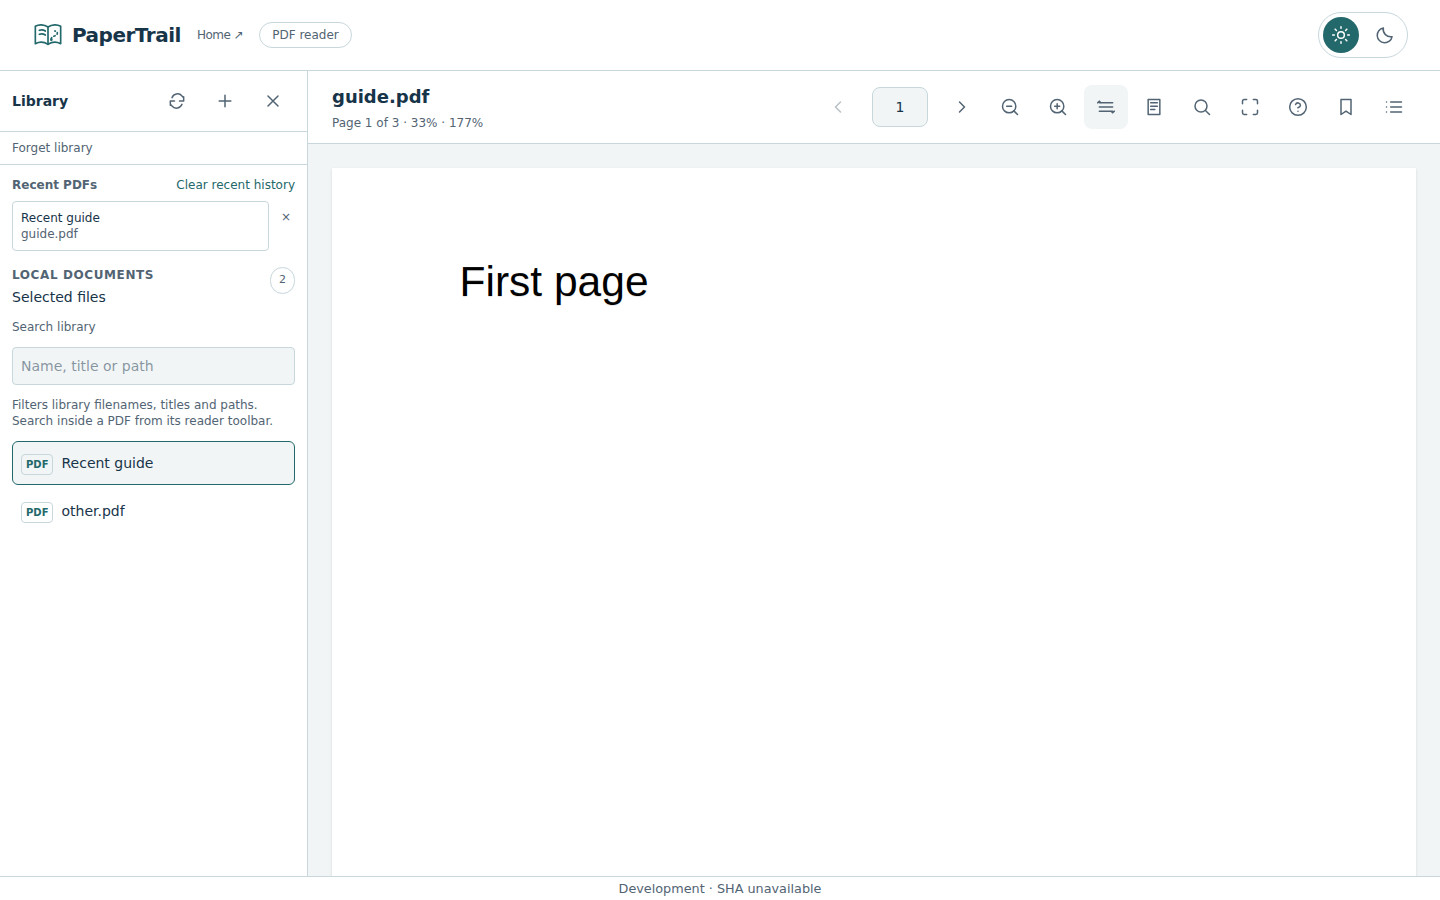
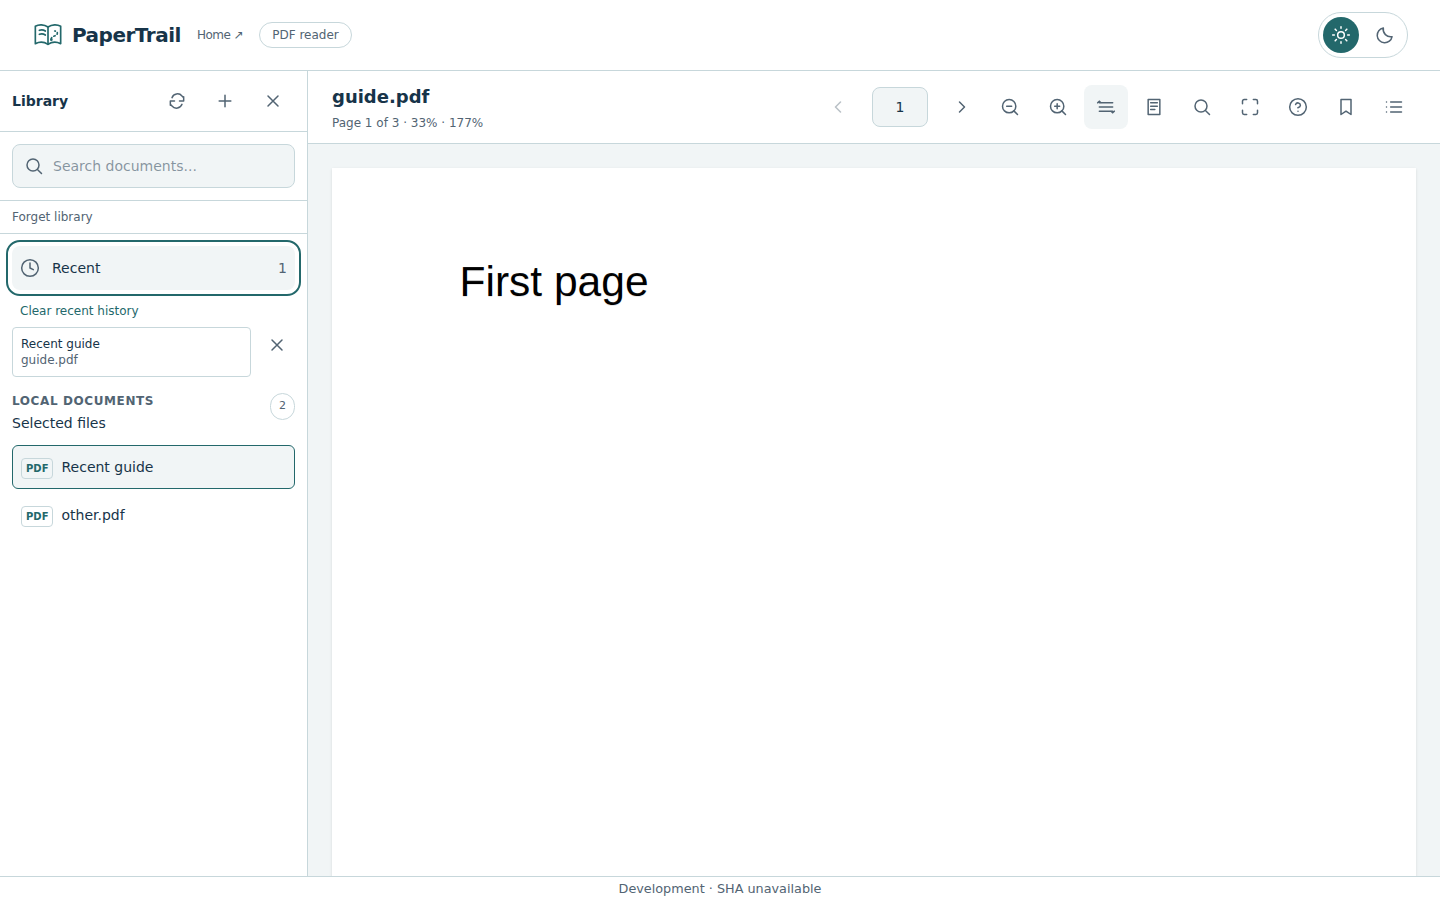
Record sidebar feedback reference comparison and fresh browser acceptance

Changed region(s): [[0.0, 0.1556, 0.2188, 0.5911], [0.1875, 0.28, 0.2188, 0.3422]]

diff --git a/design-qa.md b/design-qa.md
@@ -1,0 +1,38 @@
+# Sidebar feedback design QA — #14
+
+## Comparison target and evidence
+
+Source visual truth: [Recent reference](docs/screenshots/sidebar-reference-recent.png), 605 × 58 pixels, and [search reference](docs/screenshots/sidebar-reference-search.png), 390 × 125 pixels. The supplied images are partial UI crops with unknown CSS density. Scope is the owner’s three requested sidebar changes within PaperTrail’s existing design system, not recreation of the Add menu, app-wide colors or the entire mockup.
+
+Browser-rendered implementation: [1440px dark](docs/screenshots/recent-library-dark-1440.png), [1440px light](docs/screenshots/recent-library-1440.png), [320px light](docs/screenshots/recent-library-320.png), [320px dark](docs/screenshots/recent-library-dark-320.png). Viewports are 1440 × 900 and 320 × 900 CSS pixels, device scale factor 1. States: selected PDF, expanded Recent containing one item, cleared library query; light Recent retains keyboard focus. Source sample count five differs from the fixture count one intentionally; the count represents actual history length.
+
+[Combined comparison](docs/screenshots/sidebar-feedback-comparison.png) places the supplied crops beside the actual dark sidebar. Recent reference is proportionally normalized to 390px; search reference is native size; actual sidebar remains native 308px. This is a scoped structural/content comparison, not a claim of pixel-exact typography from crops with unknown density. Full-view captures assess pane layout and viewport bounds; focused sidebar comparison assesses the requested surfaces.
+
+## Findings and required fidelity surfaces
+
+No actionable P0/P1/P2 differences within the requested scope.
+
+- Fonts/typography: existing readable PaperTrail sans-serif hierarchy retained. Recent label and muted count fit without truncation; placeholder is readable in both themes. Mock font sizing outside these requested controls is not being adopted globally.
+- Spacing/layout: search immediately follows Library header, before workspace actions and scrollable lists. Leading search icon has sufficient input inset. Recent clock leads the row; count aligns at its trailing edge. Sidebar controls fit narrow and desktop layouts. Native focus ring is intentional.
+- Colors/tokens: existing light/dark semantic panel, canvas, muted and brand tokens retained. Dark reference and implemented dark controls have the same functional foreground/background hierarchy; full palette redesign is outside this feedback.
+- Asset fidelity: search reuses the existing icon system; clock uses upstream Lucide circle/path under the existing license. Vector assets remain sharp. No raster illustration is requested by the supplied crops.
+- Copy: placeholder is exactly `Search documents...`; row is `Recent`. Visible search label/help and empty-history sentence are absent. Input retains `Search library` accessible naming and screen-reader-only result count. Actual file-access error guidance remains available.
+
+## Browser validation and comparison history
+
+Accepted application/test source `ead6e5e9f453085f939c2abf5e2072dbc92ded86` passed Frontend CI 37149532676 and Browser E2E 37149606676: 122 unit/component, 10 pipeline and 102 browser cases, eight intentional skips, no failures/retries. All five widths verify pointer collapse, keyboard Enter expansion, search placement, exact placeholder, removed copy, history recovery and clearing without deleting reading metadata. The recent-library lifecycle records console/page errors and asserts none. Existing PDF geometry/bookmark/workspace tests remain green.
+
+First combined comparison found no P0/P1/P2 issue, so no visual fix iteration was needed. Browser images above and the combined comparison are the final evidence. Local cloud preview was attempted at terminal.local:4173 but blocked by the client; local interactive-preview verification remains unavailable. This report's visual and interaction acceptance uses the repository's GitHub Chromium fixtures, not a claimed local cloud-browser handoff, OS-picker or deployed-preview certification.
+
+## Implementation checklist
+
+- [x] Reconcile and close accepted PDF #13; EPUB/CFI belongs to #12 in milestone 3.
+- [x] Separate collapsible Recent component with leading clock/trailing count.
+- [x] Header-adjacent accessible search with exact placeholder.
+- [x] Remove redundant visible copy and retain recovery feedback.
+- [x] Inspect combined source/implementation comparison and light/dark responsive captures.
+- [ ] Owner review/merge of #121; then reconcile #14/milestone 2.
+
+Follow-up polish: none required for the scoped feedback.
+
+final result: passed

diff --git a/docs/evidence/recent-library.md b/docs/evidence/recent-library.md
@@ -33,3 +33,11 @@ Owner preview/review and merge remain pending; #14 remains open. Evidence covers
 #13 is closed completed: PDF identity, positions, view/anchor restoration and bookmarks are accepted in merged #116/#119/#120. EPUB/CFI and format-specific persistence remain owned by #12 in EPUB milestone 3; they do not block #13. Earlier notes retaining #13 for EPUB are historical and superseded. Reading continuity milestone 2 stays open for #14 only.
 
 #14 owner feedback remains in PR #121: Recent is a collapsible component with a leading clock icon and trailing count; search sits immediately below the Library header with exact `Search documents...` placeholder and a search icon. Visible search label/help and empty recent-history copy are removed; accessible naming/live result count and recovery actions remain. Full validation is running; do not start the next item before owner acceptance.
+
+## Owner sidebar feedback acceptance
+
+Source `ead6e5e9f453085f939c2abf5e2072dbc92ded86` passed [Frontend CI 37149532676](https://github.com/HimanshuHD/papertrail-reader/actions/runs/37149532676) and [Browser E2E 37149606676](https://github.com/HimanshuHD/papertrail-reader/actions/runs/37149606676): 122 unit/component, 10 pipeline, 102 browser cases; eight intentional skips, no failures/retries. Pointer collapse, keyboard expansion, search placement/exact copy and light/dark captures passed all five widths; no recent-lifecycle page/console errors.
+
+The current screenshot files above are refreshed to this owner-feedback source. [Source/implementation comparison](../screenshots/sidebar-feedback-comparison.png) was inspected; [design QA](../../design-qa.md) passes the scoped reference comparison. [Dark desktop](../screenshots/recent-library-dark-1440.png) and [dark mobile](../screenshots/recent-library-dark-320.png) are preserved. Complete report: [artifact 11283930775](https://github.com/HimanshuHD/papertrail-reader/actions/runs/37149606676/artifacts/11283930775), retained through 10 October. Local cloud preview was blocked by the browser client; this acceptance uses GitHub Chromium fixtures.
+
+#13 is closed completed; EPUB/CFI remains #12 in milestone 3. #14 remains open for owner review/merge. No next task started. Final evidence/image changes are documentation only; accepted application/test source remains unchanged.

diff --git a/docs/trackers/progress.md b/docs/trackers/progress.md
@@ -290,4 +290,4 @@ Recent PDF metadata and library filtering are implemented on `feat/14-recent-lib
 
 #13 is closed completed: PDF identity, positions, view/anchor restoration and bookmarks are accepted in merged #116/#119/#120. EPUB/CFI and format-specific persistence remain owned by #12 in EPUB milestone 3; they do not block #13. Earlier notes retaining #13 for EPUB are historical and superseded. Reading continuity milestone 2 stays open for #14 only.
 
-#14 owner feedback remains in PR #121: Recent is a collapsible component with a leading clock icon and trailing count; search sits immediately below the Library header with exact `Search documents...` placeholder and a search icon. Visible search label/help and empty recent-history copy are removed; accessible naming/live result count and recovery actions remain. Full validation is running; do not start the next item before owner acceptance.
+#14 owner feedback remains in PR #121: Recent is a collapsible component with a leading clock icon and trailing count; search sits immediately below the Library header with exact `Search documents...` placeholder and a search icon. Visible search label/help and empty recent-history copy are removed; accessible naming/live result count and recovery actions remain. Owner-feedback source `ead6e5e` passed Frontend CI 37149532676 (122 unit/component, 10 pipeline) and Browser E2E 37149606676 (102 passed, eight intentional skips, no retries). Reference comparison and light/dark captures were inspected. #121 is ready for owner review/merge; do not start the next item before owner acceptance.

diff --git a/docs/roadmaps/roadmap-2.md b/docs/roadmaps/roadmap-2.md
@@ -40,4 +40,4 @@ Multiple-document tabs, session restoration/resource limits, comparison and port
 
 #13 is closed completed: PDF identity, positions, view/anchor restoration and bookmarks are accepted in merged #116/#119/#120. EPUB/CFI and format-specific persistence remain owned by #12 in EPUB milestone 3; they do not block #13. Earlier notes retaining #13 for EPUB are historical and superseded. Reading continuity milestone 2 stays open for #14 only.
 
-#14 owner feedback remains in PR #121: Recent is a collapsible component with a leading clock icon and trailing count; search sits immediately below the Library header with exact `Search documents...` placeholder and a search icon. Visible search label/help and empty recent-history copy are removed; accessible naming/live result count and recovery actions remain. Full validation is running; do not start the next item before owner acceptance.
+#14 owner feedback remains in PR #121: Recent is a collapsible component with a leading clock icon and trailing count; search sits immediately below the Library header with exact `Search documents...` placeholder and a search icon. Visible search label/help and empty recent-history copy are removed; accessible naming/live result count and recovery actions remain. Owner-feedback source `ead6e5e` passed Frontend CI 37149532676 (122 unit/component, 10 pipeline) and Browser E2E 37149606676 (102 passed, eight intentional skips, no retries). Reference comparison and light/dark captures were inspected. #121 is ready for owner review/merge; do not start the next item before owner acceptance.

diff --git a/docs/trackers/status-audit.md b/docs/trackers/status-audit.md
@@ -52,4 +52,4 @@ PR #121 implements recent PDFs/library filtering; source `f6d6349` passed Fronte
 
 #13 is closed completed: PDF identity, positions, view/anchor restoration and bookmarks are accepted in merged #116/#119/#120. EPUB/CFI and format-specific persistence remain owned by #12 in EPUB milestone 3; they do not block #13. Earlier notes retaining #13 for EPUB are historical and superseded. Reading continuity milestone 2 stays open for #14 only.
 
-#14 owner feedback remains in PR #121: Recent is a collapsible component with a leading clock icon and trailing count; search sits immediately below the Library header with exact `Search documents...` placeholder and a search icon. Visible search label/help and empty recent-history copy are removed; accessible naming/live result count and recovery actions remain. Full validation is running; do not start the next item before owner acceptance.
+#14 owner feedback remains in PR #121: Recent is a collapsible component with a leading clock icon and trailing count; search sits immediately below the Library header with exact `Search documents...` placeholder and a search icon. Visible search label/help and empty recent-history copy are removed; accessible naming/live result count and recovery actions remain. Owner-feedback source `ead6e5e` passed Frontend CI 37149532676 (122 unit/component, 10 pipeline) and Browser E2E 37149606676 (102 passed, eight intentional skips, no retries). Reference comparison and light/dark captures were inspected. #121 is ready for owner review/merge; do not start the next item before owner acceptance.
